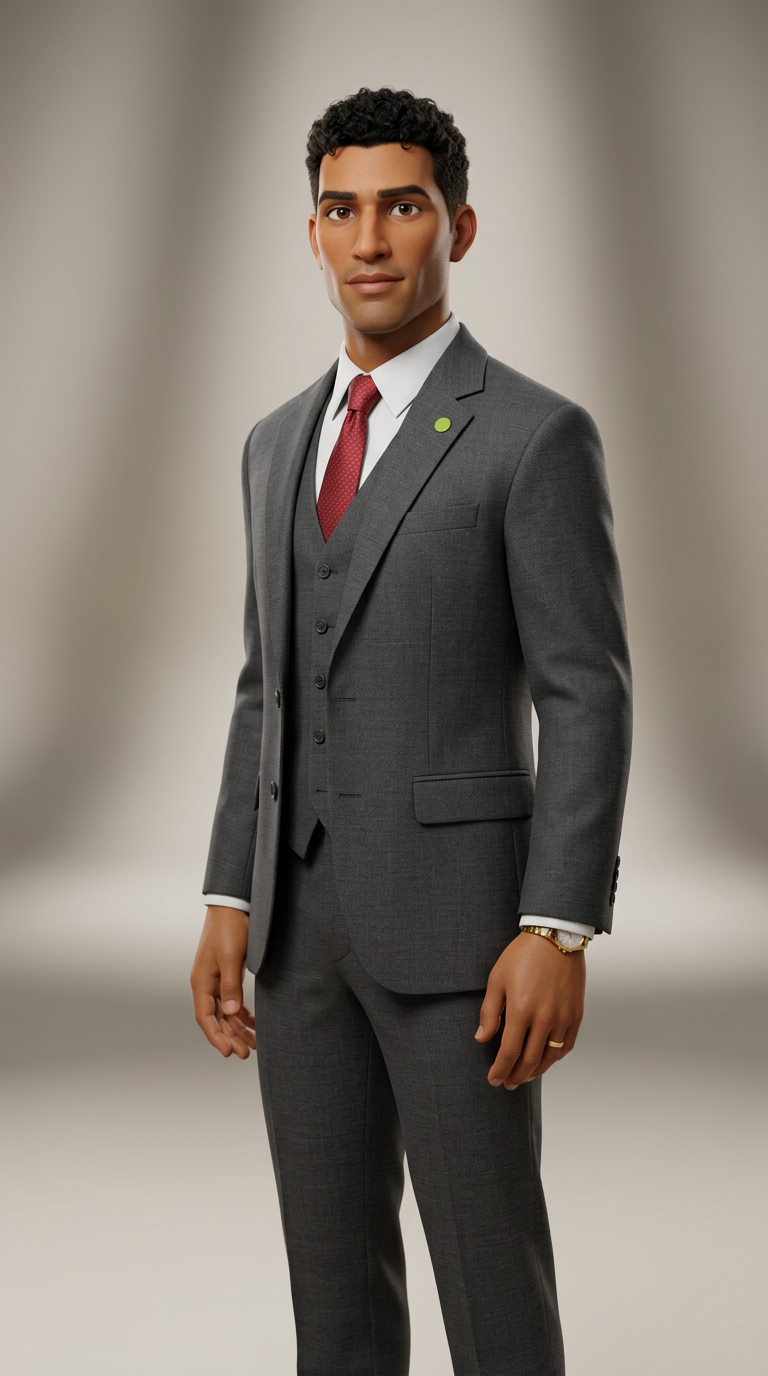
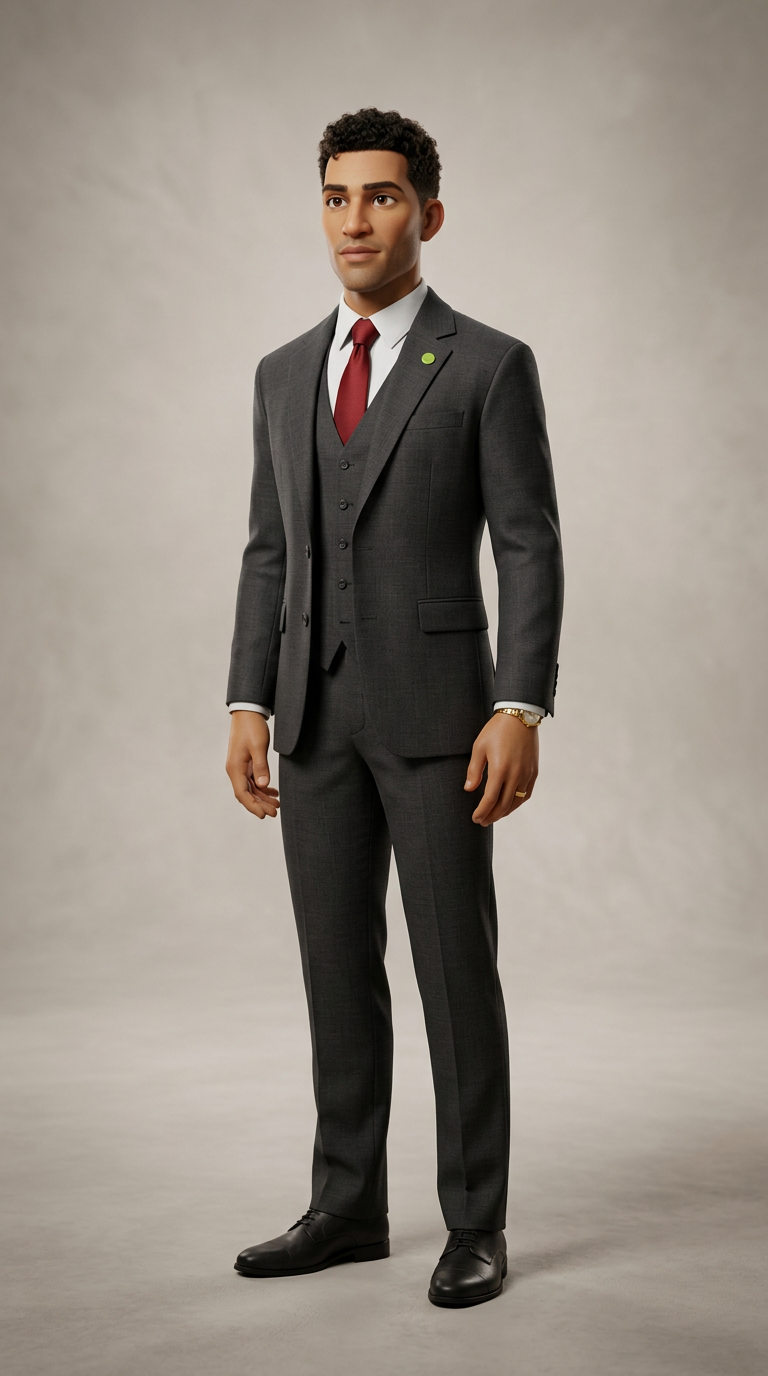
Mike: lighten skin tone slightly
Dev: "Make mike little lighter in skin tone." Updated MIKE_LOOK (warm, light
olive skin tone, a shade lighter than the previous deep olive-tan) and
regenerated the canonical assets/cinematic_cast/mike.png -- this is the
image every future video's identity-lock conditions on, so the change
takes effect immediately for the next reel without needing any other code
changes.

diff --git a/stickfin/generate.py b/stickfin/generate.py
@@ -53,8 +53,9 @@ SARAH_LOOK = (
 MIKE_VOICE = "Orus"
 MIKE_LOOK = (
     "Mike, the channel's recurring second character: a racially ambiguous, "
-    "handsome man with warm olive-tan skin, short curly dark hair, and a "
-    "sharp, defined jawline -- features that read as mixed/ambiguous "
+    "handsome man with a warm, light olive skin tone (a shade lighter than "
+    "deep olive-tan), short curly dark hair, and a sharp, defined jawline -- "
+    "features that read as mixed/ambiguous "
     "heritage rather than any single clearly-identifiable race. Wearing a "
     "tailored charcoal three-piece suit, a red silk tie, a crisp white dress "
     "shirt, and gold accents (a wristwatch, a ring) -- authority and wealth, "
